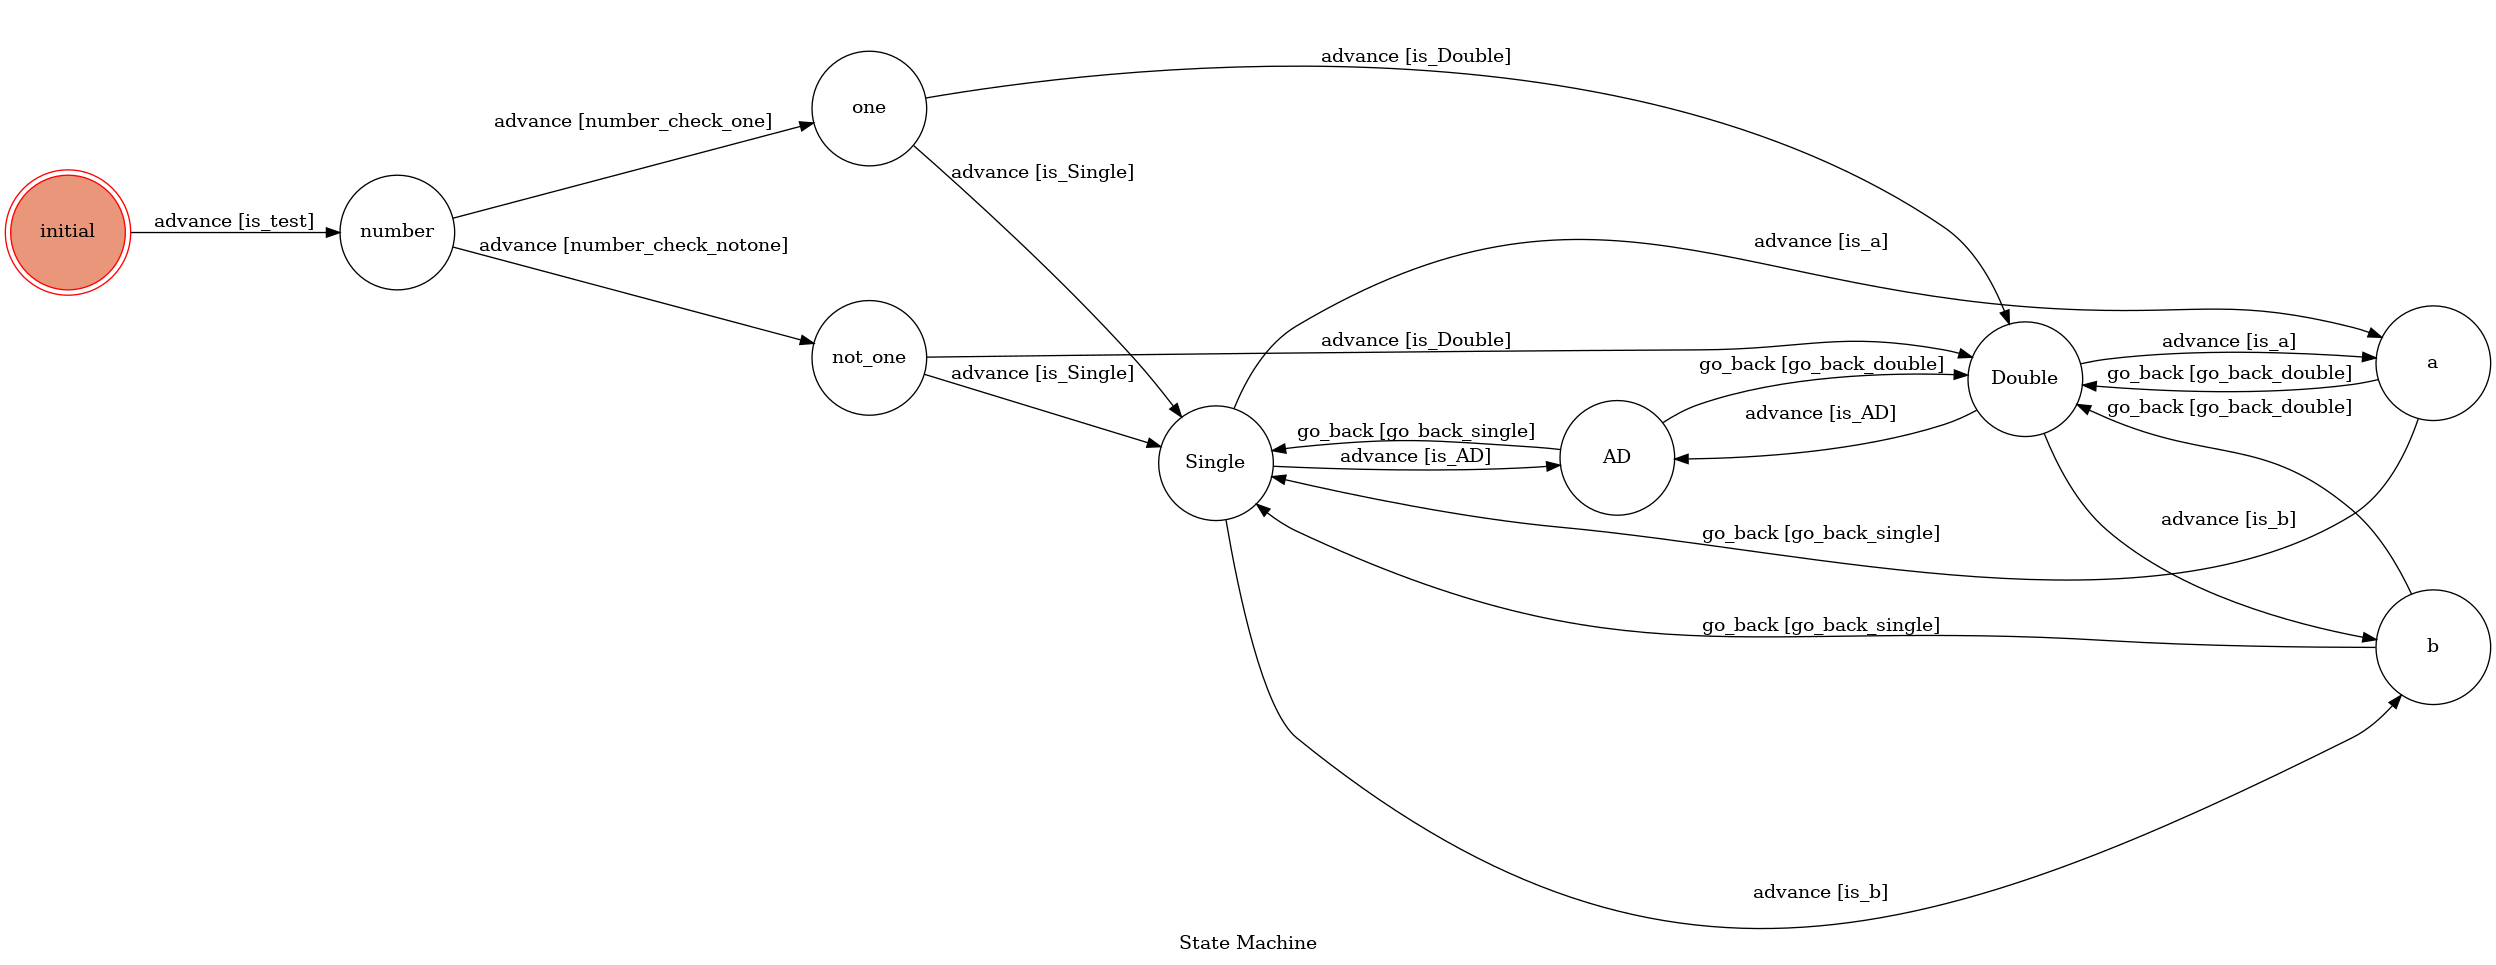
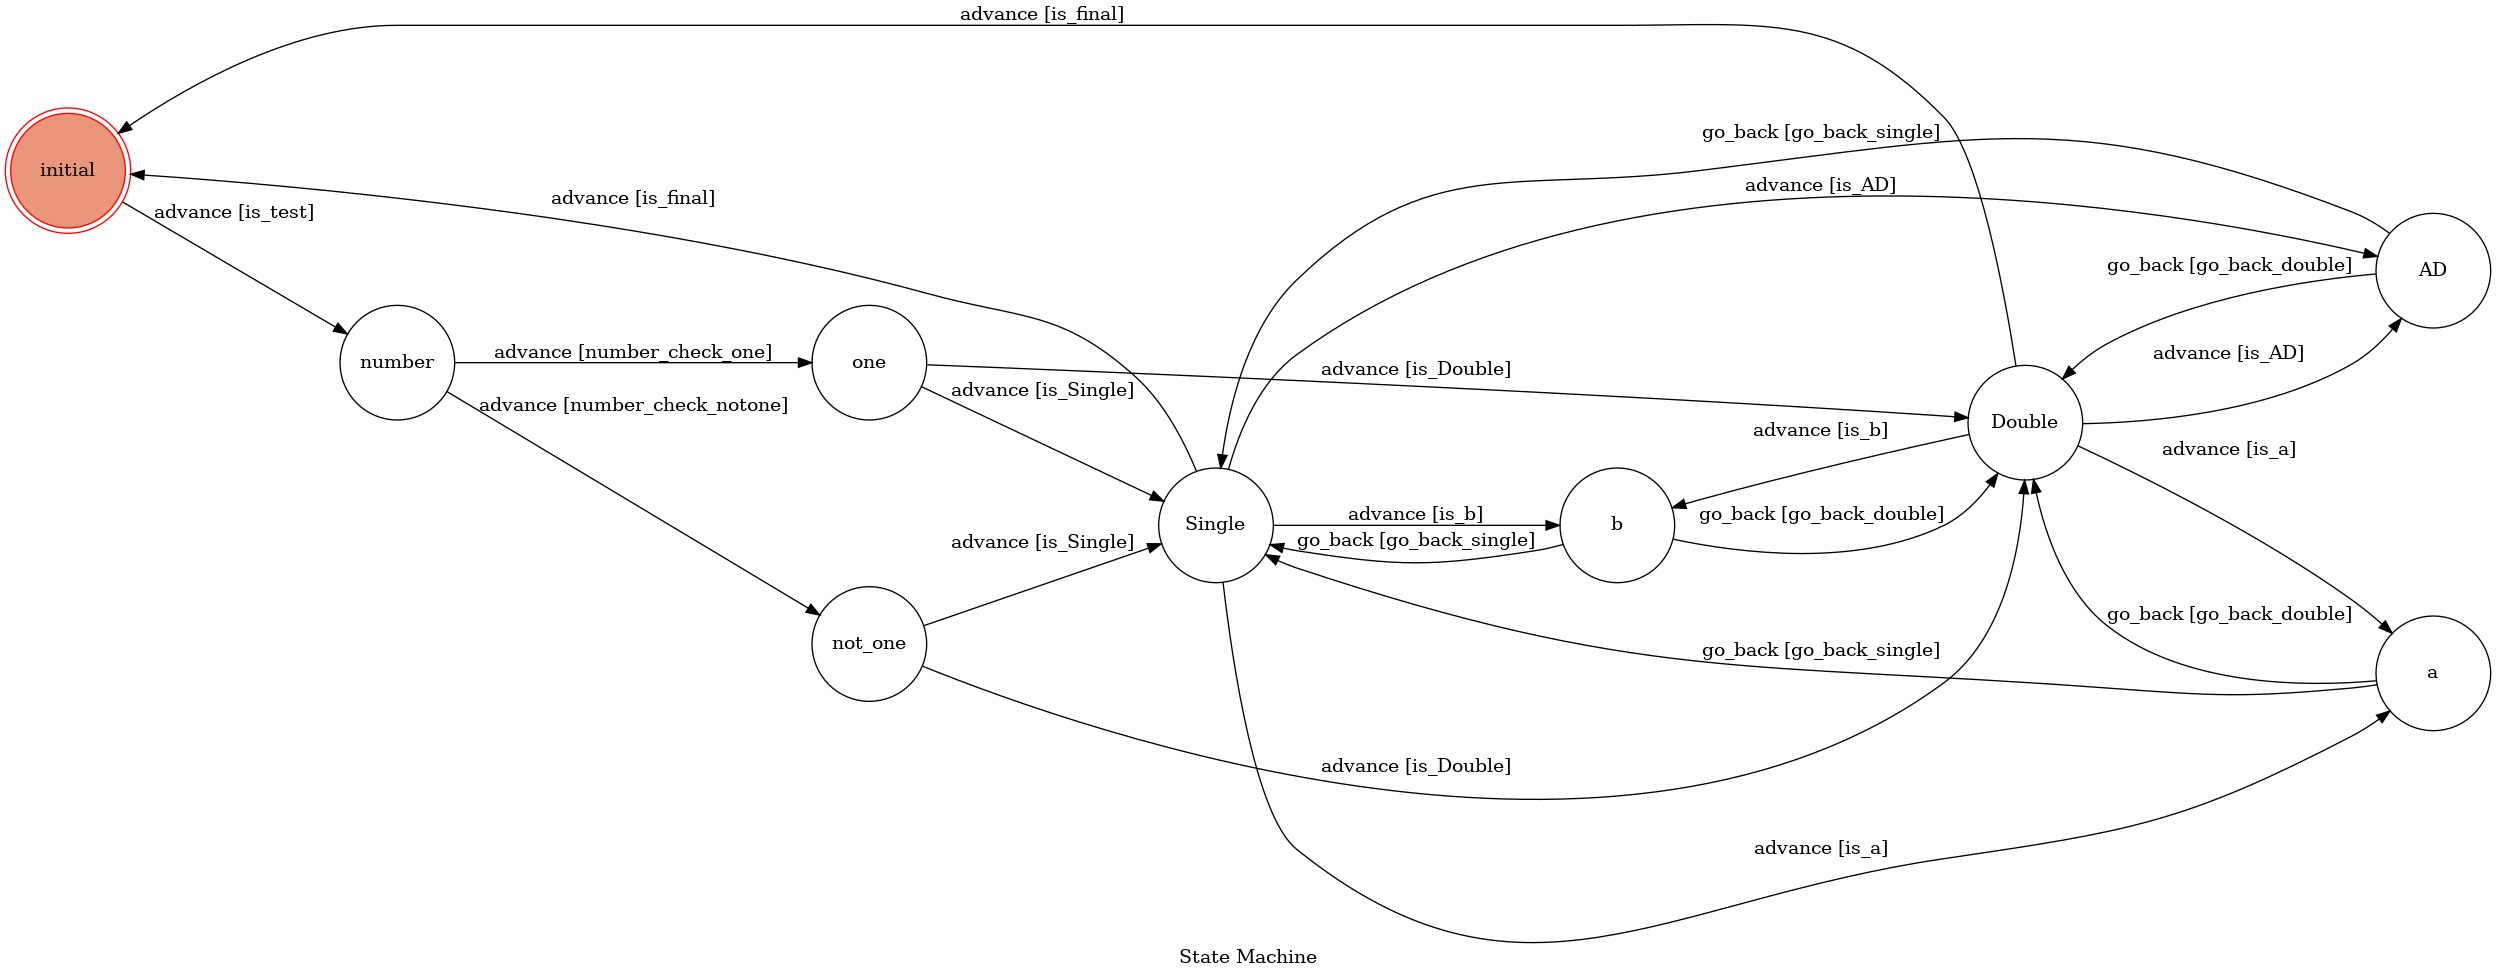
Single match complete

diff --git a/fsm.py b/fsm.py
@@ -1,10 +1,12 @@
 from transitions.extensions import GraphMachine
 
-from utils import send_text_message
-req_menu_double = 'Here comes the menu!\n1.小碎步(請輸入\na 獲得詳細資訊)\n2.壓迫性發球(致勝關鍵基本功,請輸入\nb 獲得詳細資訊)\n3.(Optinal)你想不想練擊球甜蜜點手感?(Yes or No)'
-req_menu_single = 'Here comes the menu!\n1.米字步(全場跑腳步的基本功,請輸入\na 獲得詳細資訊)\n2.短球、長球發球(發球基本功,請輸入\nb 獲得詳細資訊)\n3.(Optinal) 你想不想練反手擊球穩定度?(Yes or No)'
+from utils import push_image, push_message, send_image_url, send_text_message
+req_menu_double = 'Here comes the menu!\n1.小碎步(請輸入\na 獲得詳細資訊)\n2.壓迫性發球(致勝關鍵基本功,請輸入\nb 獲得詳細資訊)\n3.(Optinal)你想不想練擊球甜蜜點手感?(Yes or No)\n4.結束(end)'
+req_menu_single = 'Here comes the menu!\n1.米字步(全場跑腳步的基本功,請輸入\na 獲得詳細資訊)\n2.短球、長球發球(發球基本功,請輸入\nb 獲得詳細資訊)\n3.(Optinal) 你想不想練反手擊球穩定度?(Yes or No)\n4.結束(end)'
 users = []
-value = 0 #object
+ngrok_url = 'https://4377-123-194-8-218.ngrok.io'
+
+
 class TocMachine(GraphMachine):
     def __init__(self, **machine_configs):
         self.machine = GraphMachine(model=self, **machine_configs)
@@ -55,14 +57,14 @@ class TocMachine(GraphMachine):
         else:
             return False
     def Single_reply(self,event):
-        reply_token = event.reply_token
+        
         uid = event.source.user_id
         for item in users:
             if uid == item.uid:
                 if item.number == 1:
                     req = req_menu_single
                     break
-        send_text_message(reply_token,req)
+        push_message(req,uid)
     def is_Double(self,event):
         text = event.message.text
         uid = event.source.user_id
@@ -95,16 +97,18 @@ class TocMachine(GraphMachine):
                     item.AD = False
                     return False
     def AD(self,event):
-        reply_token = event.reply_token
         uid = event.source.user_id
         for item in users:
             if uid == item.uid:
                 if item.number == 1 and item.match == 'Single':
-                    req = '聽好喔~ 首先將球打高\n接著配合腳步移動對的位置\n最後抓時機打出長球或過渡球'
-                    send_text_message(reply_token,req+req_menu_single)
+                    req = '首先將球打到非慣用手方向之高處\n接著配合腳步移動對的位置\n最後抓時機打出長球或過渡球'
+                    push_message(req,uid)
                 elif item.number == 1 and item.match == "Double":
-                    req = 'send image'
-                    send_text_message(reply_token,req+req_menu_double)
+                    req = '把這個套子裝在你的羽球拍上讓擊球時有阻力(訓練咬球感)'
+                    img = 'https://i.imgur.com/izAK73o.jpg'
+                    push_image(img,uid)
+                    push_message(req,uid)
+                    
                 break
         self.go_back(event)
     def is_a(self,event):
@@ -115,16 +119,21 @@ class TocMachine(GraphMachine):
         else:
             return False
     def a_reply(self,event):
-        reply_token = event.reply_token
         uid = event.source.user_id
         for item in users:
             if uid == item.uid:
                 if item.number == 1 and item.match == "Single":
-                    req = 'send image of 6 point run'
-                    send_text_message(reply_token,req+req_menu_single)
+                    req = 'https://youtu.be/1d-NrsY99zk'
+                    img = "https://i.imgur.com/PZB9OGZ.jpg"
+                    push_message(req,uid)
+                    push_image(img,uid)
                 elif item.number == 1 and item.match == "Double":
-                    req = 'send image of small'
-                    send_text_message(reply_token,req+req_menu_double)
+                    req = 'https://youtu.be/xAUlx0eJ9eQ'
+                    push_message(req,uid)
+                elif item.number == 2 and item.match == "Single":
+                    None
+                elif item.number == 2 and item.match == "Double":
+                    None
                 break
         
         self.go_back(event)
@@ -141,13 +150,25 @@ class TocMachine(GraphMachine):
         for item in users:
             if uid == item.uid:
                 if item.number == 1 and item.match == "Single":
-                    req = 'send image of basic serve'
-                    send_text_message(reply_token,req+req_menu_single)
+                    img_1 = "https://i.imgur.com/JtvQ3NM.png"
+                    img_2 = "https://i.imgur.com/FBp7rIy.png"
+                    img_3 = "https://i.imgur.com/elBu1yg.png"
+                    push_image(img_1,uid)
+                    push_image(img_2,uid)
+                    push_image(img_3,uid)
                     break
                 elif item.number == 1 and item.match == "Double":
-                    req = 'send image of ad serve'
-                    send_text_message(reply_token,req+req_menu_double)
+                    img_1 = "https://i.imgur.com/CjUwcwS.png"
+                    img_2 = "https://i.imgur.com/6rHcRZc.jpg"
+                    img_3 = "https://i.imgur.com/pyutxV5.png"
+                    push_image(img_1,uid)
+                    push_image(img_2,uid)
+                    push_image(img_3,uid)
                     break
+                elif item.number == 2 and item.match == "Single":
+                    None
+                elif item.number == 2 and item.match == "Double":
+                    None
         
         self.go_back(event)
     def is_test(self,event):
@@ -173,3 +194,12 @@ class TocMachine(GraphMachine):
                     return True
                 else :
                     return False
+    def is_final(self,event):
+        text = event.message.text
+        if text.lower() == "end":
+            return True
+        else:
+            return False
+    def good_bye(self,event):
+        reply_token = event.reply_token
+        send_text_message(reply_token, "那就下次再使用吧~\n希望有幫助到你! (p.s. 輸入任意字串才次開始!)")

diff --git a/app.py b/app.py
@@ -105,12 +105,21 @@ machine = TocMachine(
                     "source": ["a","b","AD"],
                     "dest": "Single",
                     "conditions": "go_back_single",
+                    "after": "Single_reply"
                 },
                 {
                     "trigger": "go_back",
                     "source": ["a","b","AD"],
                     "dest": "Double",
                     "conditions": "go_back_double",
+                    "after": "Double_reply"
+                },
+                {
+                    "trigger": "advance",
+                    "source": ["Single","Double"],
+                    "dest": "initial",
+                    "conditions": "is_final",
+                    "after": "good_bye"
                 }
 
             ],
@@ -262,12 +271,21 @@ def handle_message(event):
                     "source": ["a","b","AD"],
                     "dest": "Single",
                     "conditions": "go_back_single",
+                    "after": "Single_reply"
                 },
                 {
                     "trigger": "go_back",
                     "source": ["a","b","AD"],
                     "dest": "Double",
                     "conditions": "go_back_double",
+                    "after": "Double_reply"
+                },
+                {
+                    "trigger": "advance",
+                    "source": ["Single","Double"],
+                    "dest": "initial",
+                    "conditions": "is_final",
+                    "after": "good_bye"
                 }
 
             ],

diff --git a/utils.py b/utils.py
@@ -1,23 +1,27 @@
 import os
 
 from linebot import LineBotApi, WebhookParser
-from linebot.models import MessageEvent, TextMessage, TextSendMessage
+from linebot.models import MessageEvent, TextMessage, TextSendMessage,ImageSendMessage
 
-
+ngrok_url = 'https://4377-123-194-8-218.ngrok.io'
 channel_access_token = os.getenv("LINE_CHANNEL_ACCESS_TOKEN", None)
 
 
 def send_text_message(reply_token, text):
     line_bot_api = LineBotApi(channel_access_token)
     line_bot_api.reply_message(reply_token, TextSendMessage(text=text))
-
     return "OK"
 
+def send_image_url(reply_token, img_url):
+    line_bot_api = LineBotApi(channel_access_token)
+    line_bot_api.reply_message(reply_token,ImageSendMessage(img_url,img_url))
 
-"""
-def send_image_url(id, img_url):
-    pass
+def push_message(txt,id):
+    line_bot_api = LineBotApi(channel_access_token)
+    line_bot_api.push_message(id, TextSendMessage(text=txt))
+def push_image(img,id):
+    line_bot_api = LineBotApi(channel_access_token)
+    line_bot_api.push_message(id, ImageSendMessage(img,img))
+# def send_button_message(id, text, buttons):
+    # pass
 
-def send_button_message(id, text, buttons):
-    pass
-"""
